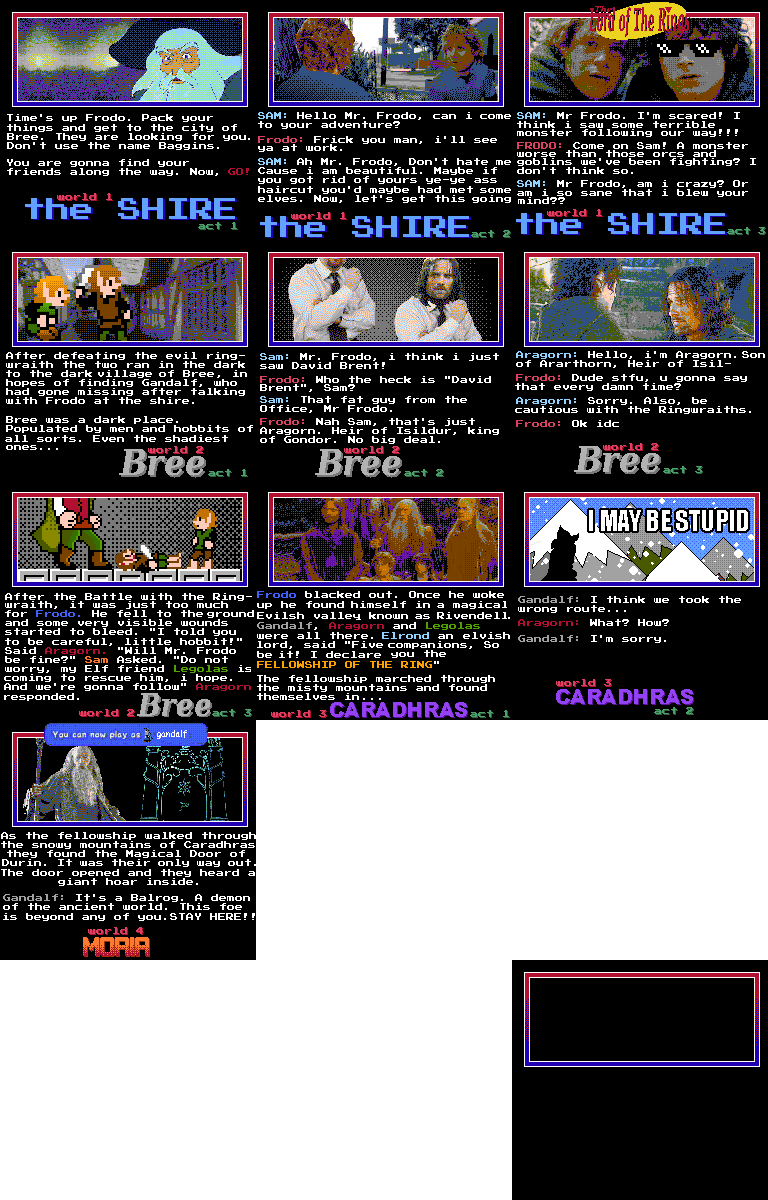
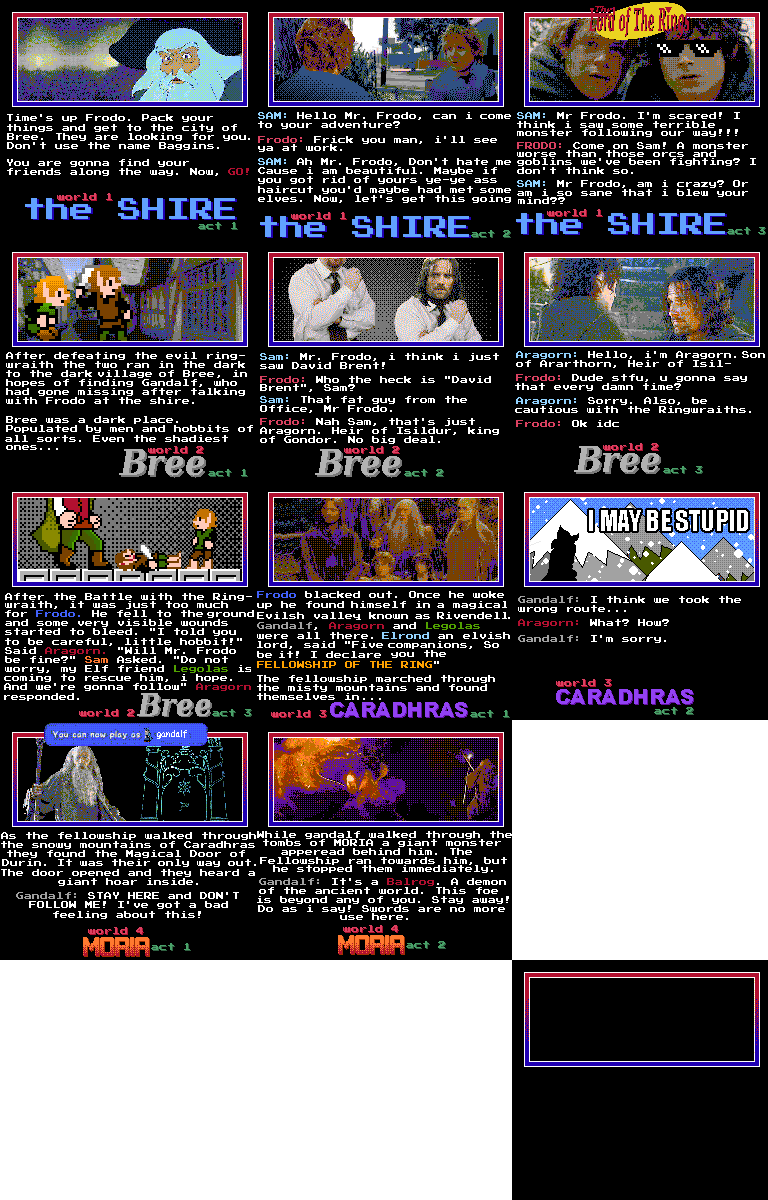
Balrog Boss Humble Begginings

Changed region(s): [[0.0, 0.5858, 0.6875, 0.8017]]

diff --git a/scenes/balrog.js b/scenes/balrog.js
@@ -1,0 +1,51 @@
+class Balrog extends Phaser.Scene
+{
+    constructor()
+    {
+        super({key: "Balrog"})
+    }
+
+    preload()
+    {
+        this.load.image("moria3D", "assets/backgrounds/moria3D.png")
+        this.load.image("moriaSkies", "assets/backgrounds/moriaSkies.png")
+        this.load.image("moriaMountains", "assets/backgrounds/moriaMountains.png")
+        this.load.image("moriaTombs", "assets/backgrounds/moriaTombs.png")
+    }
+
+    create()
+    {
+        this.playerCamera = {x: config.width/2, y: config.height/2}
+        this.cameras.main.startFollow(this.playerCamera, true, 0.2, 1)
+
+        this.keys = {
+            d: this.input.keyboard.addKey(Phaser.Input.Keyboard.KeyCodes.D),
+            a: this.input.keyboard.addKey(Phaser.Input.Keyboard.KeyCodes.A),
+        }
+
+        // Parallax.
+        this.add.image(config.width/2, config.height/2, "moriaSkies").setScrollFactor(0).setDepth(-1)
+        createParallax(this, config.width * 5, "moriaTombs", 0.25)
+        createParallax(this, config.width * 5, "moriaMountains", 0.5)
+        this.add.sprite(0, 0, "moria3D").setOrigin(0, 0)
+    }
+
+    update(time, delta)
+    {
+        // Player camera horizontal movement.
+        if (this.keys.a.isDown)
+        {
+            if (this.playerCamera.x >= 130)
+            {
+                this.playerCamera.x -= 3
+            }
+        }
+        else if (this.keys.d.isDown)
+        {
+            if (this.playerCamera.x <= 560)
+            {
+                this.playerCamera.x += 3
+            }
+        }
+    }
+}

diff --git a/index.html b/index.html
@@ -27,6 +27,7 @@
         <script src = "scripts/button.js"></script>
 
         <!-- Load scenes. -->
+        <script src = "scenes/balrog.js"></script>
         <script src = "scenes/level.js"></script>
         <script src = "scenes/menu.js"></script>
         <script src = "scenes/select.js"></script>

diff --git a/main.js b/main.js
@@ -36,7 +36,7 @@ var config = {
         }
     },
 
-    scene: [Select, Level, Menu]
+    scene: [Select, Level, Menu, Balrog]
 }
 
 var levels = [
